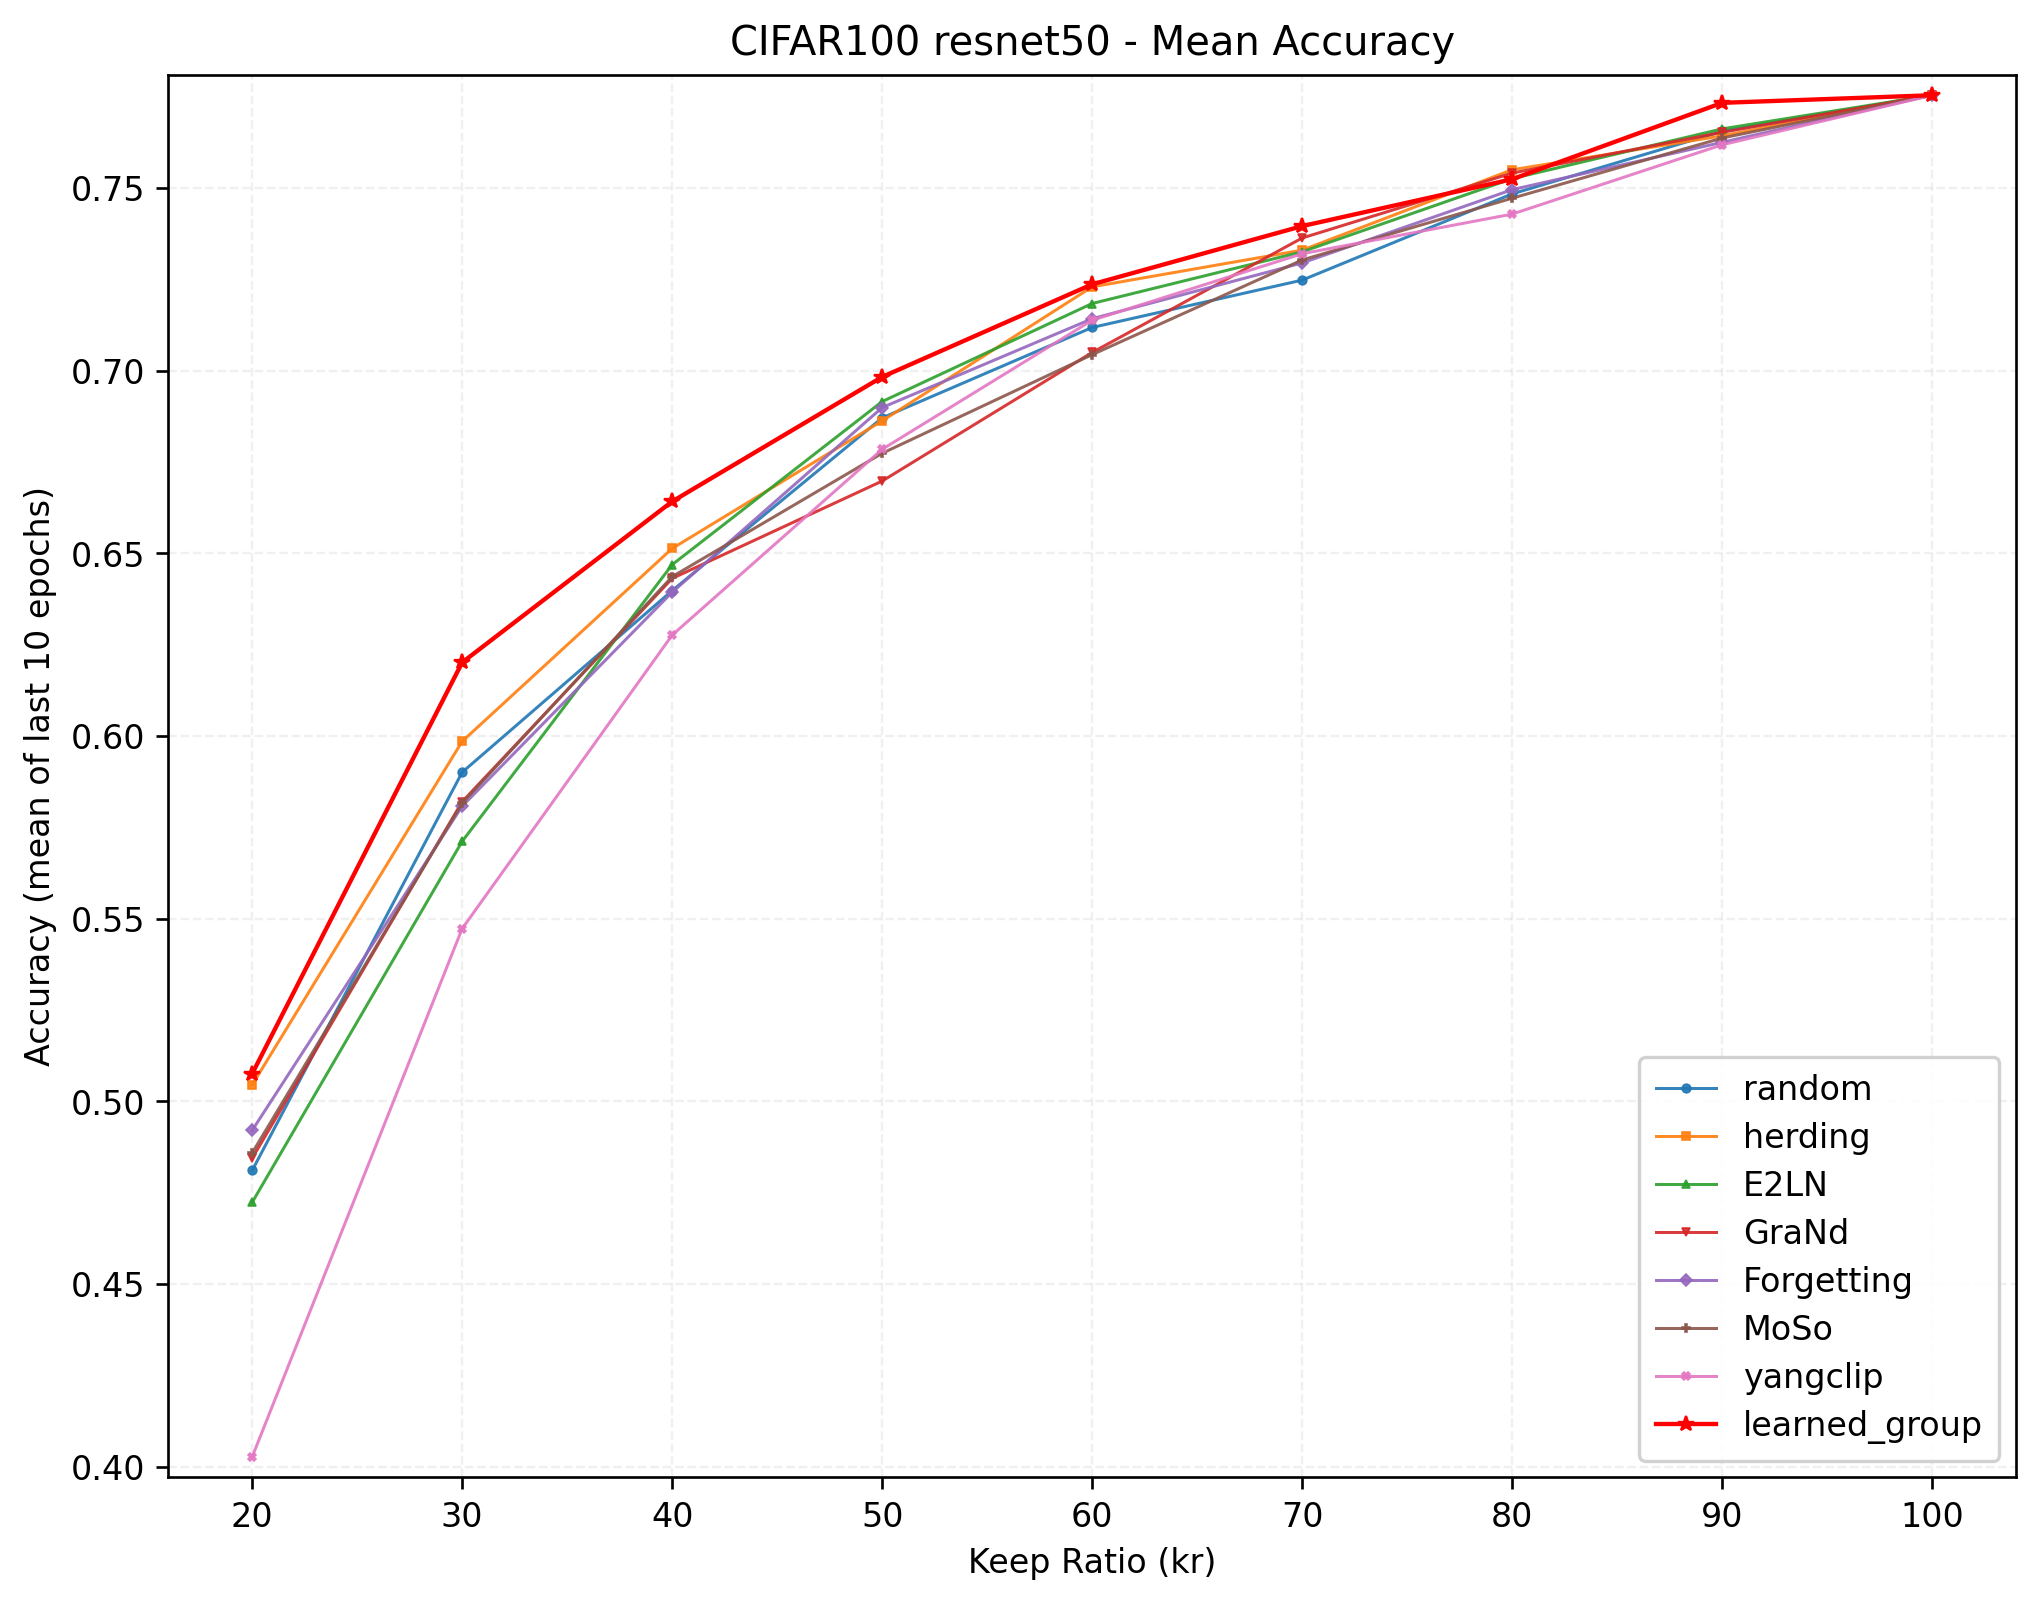
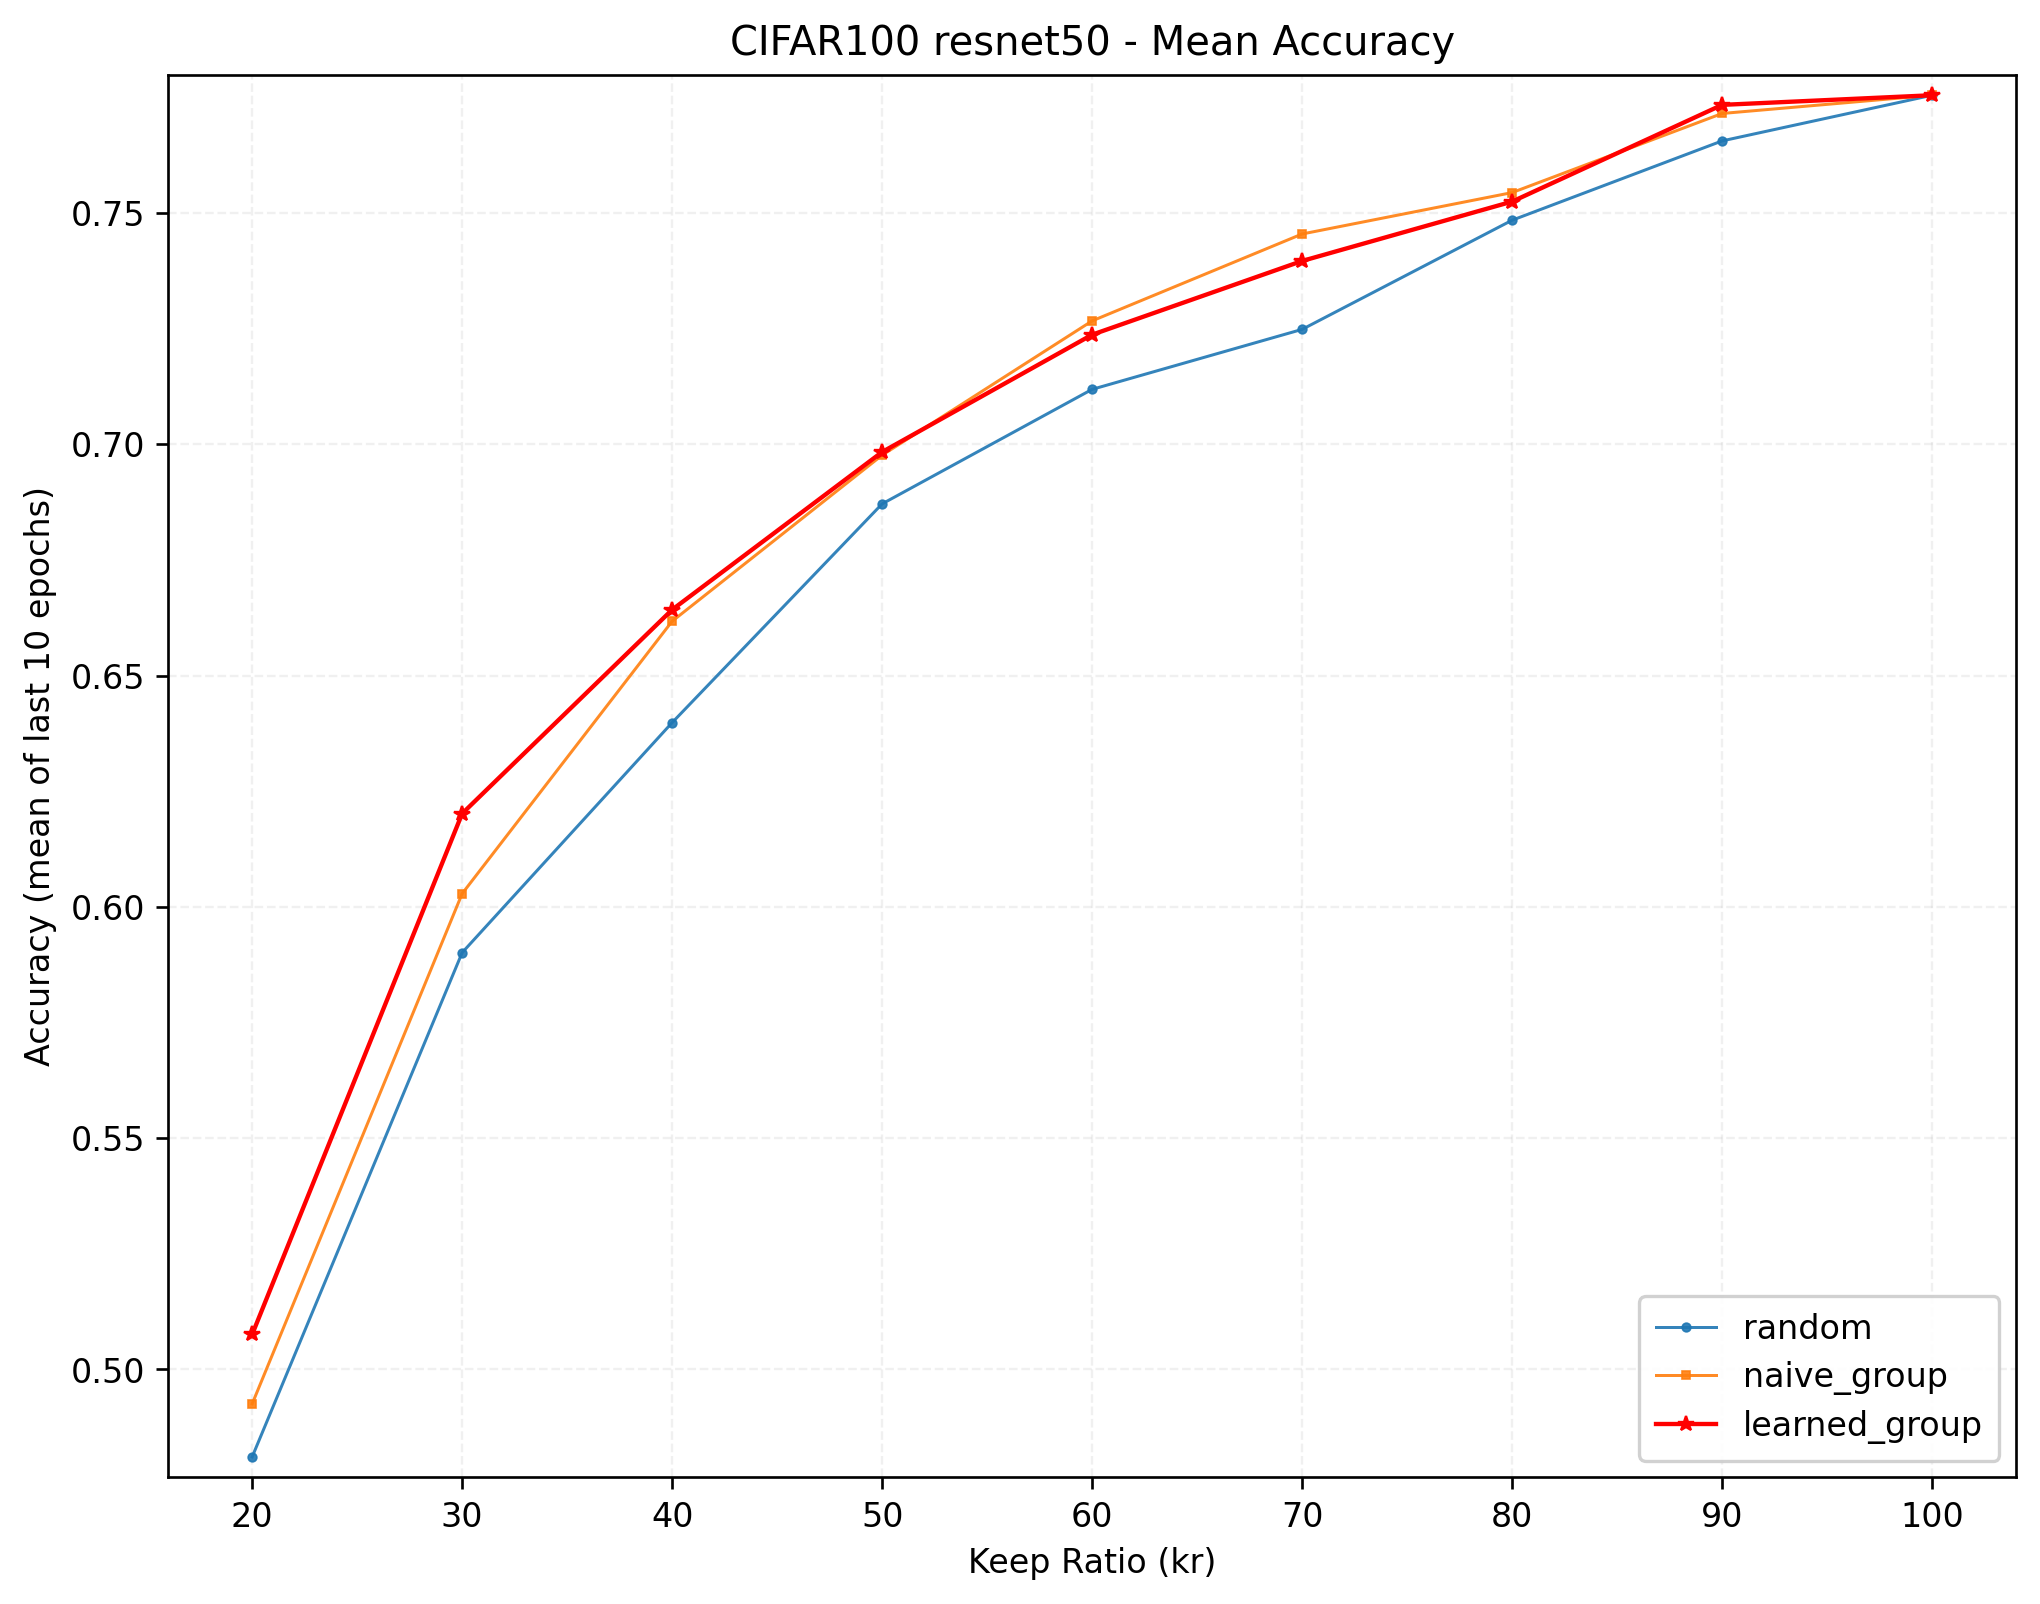
xx

diff --git a/learn_scoring_weights.py b/learn_scoring_weights.py
@@ -117,7 +117,10 @@ def parse_args() -> argparse.Namespace:
         "--seed",
         type=str,
         default=",".join(str(s) for s in CONFIG.exp_seeds),
-        help="输出兼容 seed 列表（用于在 scoring_weights.json 中写多条相同记录）",
+        help=(
+            "输出 seed 列表：会分别加载各自 adapter、分别计算 SA/Div/DDS、分别学习权重；"
+            "仅共享 proxy 动态监督标签。"
+        ),
     )
     parser.add_argument(
         "--proxy-training-seed",
@@ -319,10 +322,6 @@ def run_once(args: argparse.Namespace, output_seeds: list[int]) -> None:
         debug_prompts=args.debug_prompts,
     )
 
-    image_adapter, text_adapter, adapter_paths = load_adapters_for_seed(
-        args, args.dataset, dds_metric.extractor.embed_dim, proxy_training_seed, device
-    )
-
     dds_loader = build_score_loader(
         dds_metric.extractor.preprocess,
         args.data_root,
@@ -350,48 +349,6 @@ def run_once(args: argparse.Namespace, output_seeds: list[int]) -> None:
 
     dataset_for_labels = _build_dataset(args.dataset, args.data_root, transform=None)
     num_samples_static = len(dataset_for_labels)
-
-    def _compute_scores() -> dict[str, np.ndarray]:
-        dds_scores_local = dds_metric.score_dataset(
-            tqdm(dds_loader, desc="Scoring DDS", unit="batch"),
-            adapter=image_adapter,
-        )
-        div_scores_local = div_metric.score_dataset(
-            tqdm(div_loader, desc="Scoring Div", unit="batch"),
-            adapter=image_adapter,
-        )
-        sa_scores_local = sa_metric.score_dataset(
-            tqdm(sa_loader, desc="Scoring SA", unit="batch"),
-            adapter_image=image_adapter,
-            adapter_text=text_adapter,
-        )
-        return {
-            "sa": sa_scores_local.scores.numpy(),
-            "div": div_scores_local.scores.numpy(),
-            "dds": dds_scores_local.scores.numpy(),
-            "labels": np.asarray(dataset_for_labels.targets),
-        }
-
-    static_scores = get_or_compute_static_scores(
-        cache_root=PROJECT_ROOT / "static_scores",
-        dataset=args.dataset,
-        seed=proxy_training_seed,
-        clip_model=args.clip_model,
-        adapter_image_path=str(adapter_paths["image_path"]),
-        adapter_text_path=str(adapter_paths["text_path"]),
-        div_k=div_metric.k,
-        dds_k=dds_metric.k,
-        dds_eigval_lower_bound=dds_metric.eigval_lower_bound,
-        dds_eigval_upper_bound=dds_metric.eigval_upper_bound,
-        prompt_template=sa_metric.prompt_template,
-        num_samples=num_samples_static,
-        compute_fn=_compute_scores,
-    )
-
-    if num_samples != num_samples_static:
-        raise ValueError("Dynamic labels and static dataset sample count mismatch.")
-    if not np.array_equal(labels_all, static_scores["labels"]):
-        raise ValueError("代理训练日志的标签与评分数据集标签不一致。")
 
     d_result = TransferabilityAlignmentScore().compute(folds=folds, labels_all=labels_all)
     e_result = PersistentDifficultyScore().compute(folds=folds, labels_all=labels_all)
@@ -454,58 +411,13 @@ def run_once(args: argparse.Namespace, output_seeds: list[int]) -> None:
         u_norm=u_scores.astype(np.float32),
     )
 
-    static_features = np.stack(
-        [
-            static_scores["sa"],
-            static_scores["div"],
-            static_scores["dds"],
-        ],
-        axis=1,
-    ).astype(np.float64)
-    dynamic_scores = u_scores.astype(np.float64)
-
-    weights, bias = fit_ridge_regression_nonnegative(
-        static_features,
-        dynamic_scores,
-        args.ridge_lambda,
-        args.learning_rate,
-        args.max_iter,
-        args.tol,
-    )
-
     dynamic_component_values = {
         "A": a_result.final_normalized,
         "C": c_result.final_normalized,
         "D": d_result.final_normalized,
         "E": e_result.final_normalized,
     }
-    static_component_values = {
-        "SA": static_scores["sa"],
-        "Div": static_scores["div"],
-        "DDS": static_scores["dds"],
-    }
-    correlation_matrix: dict[str, dict[str, float]] = {}
-    print("Dynamic-vs-static Pearson correlations:")
-    for d_name, d_values in dynamic_component_values.items():
-        correlation_matrix[d_name] = {}
-        row_str = []
-        for s_name, s_values in static_component_values.items():
-            corr = safe_pearson_corr(d_values, s_values)
-            correlation_matrix[d_name][s_name] = corr
-            row_str.append(f"{s_name}={corr:+.4f}")
-        print(f"  {d_name}: " + ", ".join(row_str))
-
-    print(
-        "Learned static weights:",
-        f"SA={weights[0]:.6f}, Div={weights[1]:.6f}, DDS={weights[2]:.6f}, bias={bias:.6f}",
-    )
-    sa_warning = bool(weights[0] > (1.0 / 3.0))
-    div_is_lowest = bool(weights[1] <= min(weights[0], weights[2]))
-    if sa_warning:
-        print("WARNING: learned SA weight is above 1/3.")
-    if div_is_lowest:
-        print("WARNING: learned Div weight is the lowest among SA/Div/DDS.")
-
+    dynamic_scores = u_scores.astype(np.float64)
     output_path = build_output_path(args.output)
     output_path.parent.mkdir(parents=True, exist_ok=True)
     data: dict[str, dict[str, dict[str, object]]] = {}
@@ -517,6 +429,97 @@ def run_once(args: argparse.Namespace, output_seeds: list[int]) -> None:
 
     dataset_entry = data.get(args.dataset, {})
     for seed in output_seeds:
+        image_adapter, text_adapter, adapter_paths = load_adapters_for_seed(
+            args, args.dataset, dds_metric.extractor.embed_dim, seed, device
+        )
+
+        def _compute_scores() -> dict[str, np.ndarray]:
+            dds_scores_local = dds_metric.score_dataset(
+                tqdm(dds_loader, desc=f"Scoring DDS (seed={seed})", unit="batch"),
+                adapter=image_adapter,
+            )
+            div_scores_local = div_metric.score_dataset(
+                tqdm(div_loader, desc=f"Scoring Div (seed={seed})", unit="batch"),
+                adapter=image_adapter,
+            )
+            sa_scores_local = sa_metric.score_dataset(
+                tqdm(sa_loader, desc=f"Scoring SA (seed={seed})", unit="batch"),
+                adapter_image=image_adapter,
+                adapter_text=text_adapter,
+            )
+            return {
+                "sa": sa_scores_local.scores.numpy(),
+                "div": div_scores_local.scores.numpy(),
+                "dds": dds_scores_local.scores.numpy(),
+                "labels": np.asarray(dataset_for_labels.targets),
+            }
+
+        static_scores = get_or_compute_static_scores(
+            cache_root=PROJECT_ROOT / "static_scores",
+            dataset=args.dataset,
+            seed=seed,
+            clip_model=args.clip_model,
+            adapter_image_path=str(adapter_paths["image_path"]),
+            adapter_text_path=str(adapter_paths["text_path"]),
+            div_k=div_metric.k,
+            dds_k=dds_metric.k,
+            dds_eigval_lower_bound=dds_metric.eigval_lower_bound,
+            dds_eigval_upper_bound=dds_metric.eigval_upper_bound,
+            prompt_template=sa_metric.prompt_template,
+            num_samples=num_samples_static,
+            compute_fn=_compute_scores,
+        )
+
+        if num_samples != num_samples_static:
+            raise ValueError("Dynamic labels and static dataset sample count mismatch.")
+        if not np.array_equal(labels_all, static_scores["labels"]):
+            raise ValueError("代理训练日志的标签与评分数据集标签不一致。")
+
+        static_features = np.stack(
+            [
+                static_scores["sa"],
+                static_scores["div"],
+                static_scores["dds"],
+            ],
+            axis=1,
+        ).astype(np.float64)
+
+        weights, bias = fit_ridge_regression_nonnegative(
+            static_features,
+            dynamic_scores,
+            args.ridge_lambda,
+            args.learning_rate,
+            args.max_iter,
+            args.tol,
+        )
+
+        static_component_values = {
+            "SA": static_scores["sa"],
+            "Div": static_scores["div"],
+            "DDS": static_scores["dds"],
+        }
+        correlation_matrix: dict[str, dict[str, float]] = {}
+        print(f"Dynamic-vs-static Pearson correlations (seed={seed}):")
+        for d_name, d_values in dynamic_component_values.items():
+            correlation_matrix[d_name] = {}
+            row_str = []
+            for s_name, s_values in static_component_values.items():
+                corr = safe_pearson_corr(d_values, s_values)
+                correlation_matrix[d_name][s_name] = corr
+                row_str.append(f"{s_name}={corr:+.4f}")
+            print(f"  {d_name}: " + ", ".join(row_str))
+
+        print(
+            f"Learned weights for seed {seed}:",
+            f"SA={weights[0]:.6f}, Div={weights[1]:.6f}, DDS={weights[2]:.6f}, bias={bias:.6f}",
+        )
+        sa_warning = bool(weights[0] > (1.0 / 3.0))
+        div_is_lowest = bool(weights[1] <= min(weights[0], weights[2]))
+        if sa_warning:
+            print(f"WARNING (seed={seed}): learned SA weight is above 1/3.")
+        if div_is_lowest:
+            print(f"WARNING (seed={seed}): learned Div weight is the lowest among SA/Div/DDS.")
+
         seed_key = str(seed)
         dataset_entry.pop(f"{seed_key}_meta", None)
         dataset_entry[seed_key] = {
@@ -545,7 +548,6 @@ def run_once(args: argparse.Namespace, output_seeds: list[int]) -> None:
 
     print("Learned weights saved to", output_path)
     print("Applied output seeds:", output_seeds)
-    print("Shared learned weights:", dataset_entry[str(output_seeds[0])])
     print("Dynamic cache saved to", dynamic_cache_path)
 
 

diff --git a/draw_acc_curve.py b/draw_acc_curve.py
@@ -24,13 +24,13 @@ def parse_args() -> argparse.Namespace:
     parser.add_argument(
         "--methods",
         nargs="+",
-        default=[
-            "random", "herding", "E2LN", "GraNd", "Forgetting", "MoSo",
-            "yangclip", "learned_group"
-        ],
         # default=[
-        #     "random", "naive_topk", "learned_topk", "naive_group", "learned_group"
+        #     "random", "herding", "E2LN", "GraNd", "Forgetting", "MoSo",
+        #     "yangclip", "learned_group"
         # ],
+        default=[
+            "random", "naive_group", "learned_group"
+        ],
         help="Selection methods to compare",
     )
     parser.add_argument(
